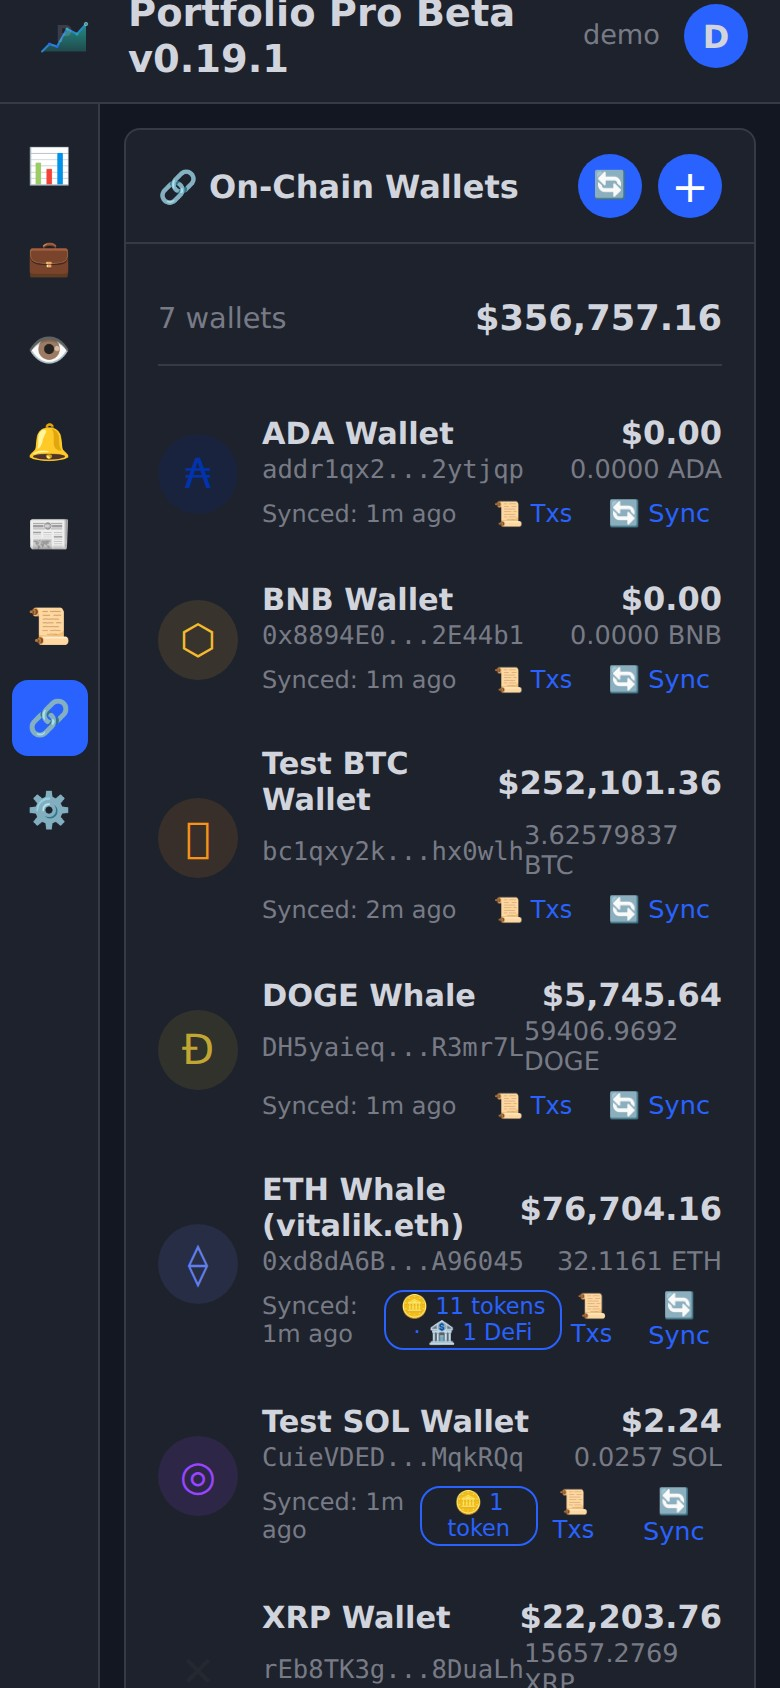
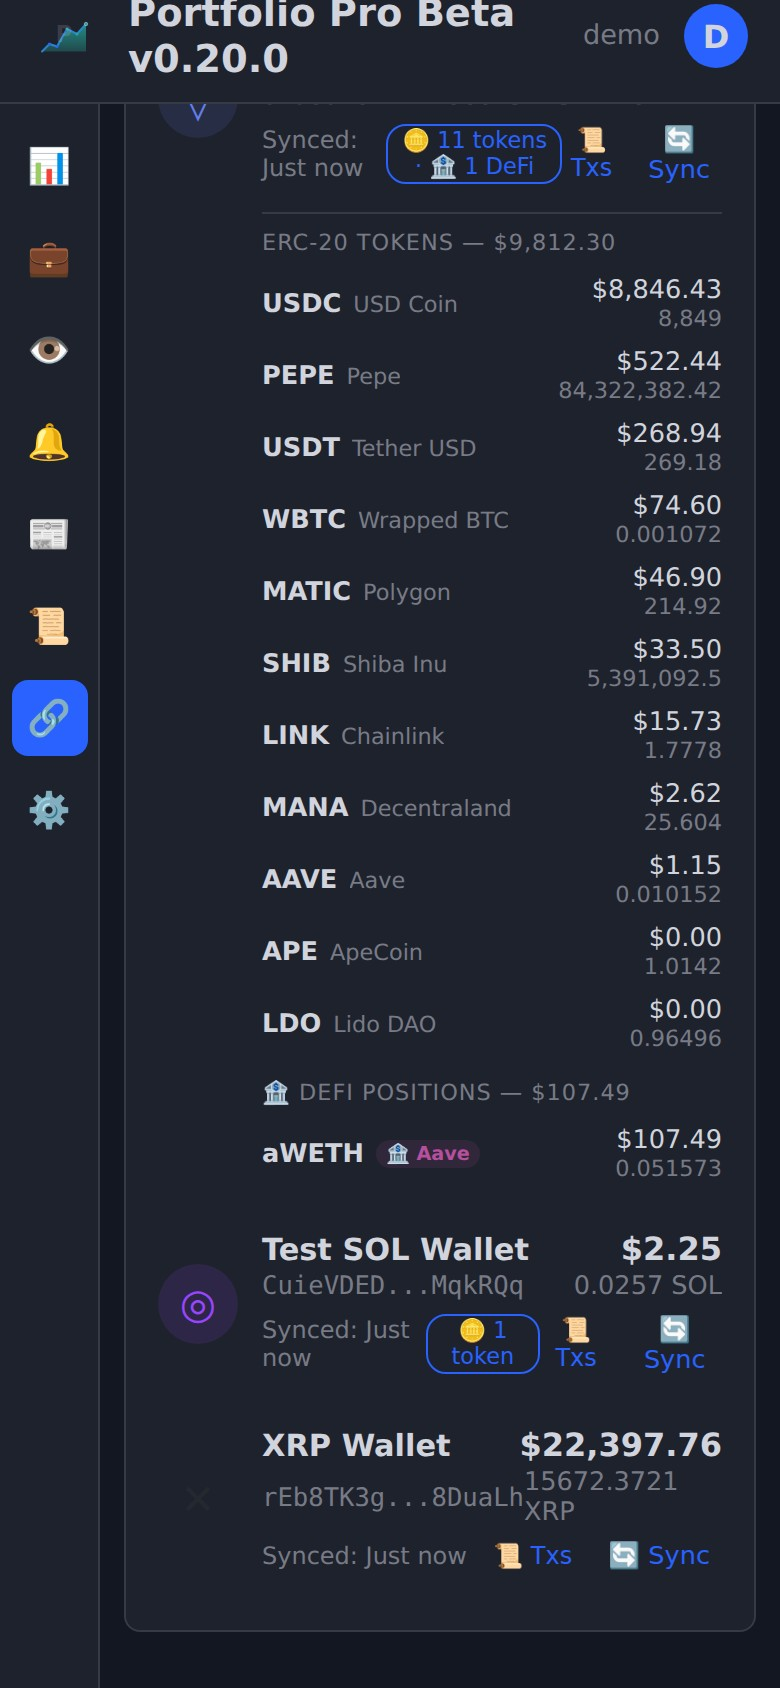
fix: better wallet-tokens screenshot + compact features list

diff --git a/README.md b/README.md
@@ -14,29 +14,17 @@
 
 ## Features
 
-- 📊 **Interactive Charts** — Area/candlestick views with MA20/50/200 overlays
-- 💼 **Portfolio Management** — Track positions, options, and cash with grouped display
-- 🔗 **Blockchain Wallets** — Connect public addresses across 13 chains with auto-sync
-- ⛓ **13 Chains** — BTC, ETH, SOL, BNB, AVAX, MATIC, ARB, OP, LTC, DOGE, XRP, ADA, DOT
-- 👀 **Watchlists** — Customizable with 12+ categories, price alerts, and dropdown selector
-- 🔔 **Alerts** — Set price targets with Telegram & push notifications
-- ⛓ **Options Chain** — View calls/puts with strikes and expiry dates
-- 📰 **News Feed** — Real-time market news with stock-specific filtering
-- 🥧 **Allocation Chart** — Visual donut chart showing portfolio breakdown
-- 📈 **Performance Chart** — Historical portfolio value with daily snapshots
-- 📊 **OHLCV History** — Stored daily candles for all tracked symbols (back to 1984)
-- 💱 **Multi-Currency** — EUR, USD, GBP, CHF with live exchange rates
-- 🔔 **Push Notifications** — Browser push via service worker (HTTPS required)
-- 📱 **Mobile-First** — Swipe actions, collapsible sections, responsive design
-- 👥 **Multi-User** — JWT auth with per-user portfolios
-- 🔒 **Security Hardened** — CSP, CORS lockdown, input validation, audit logging
-- ⚡ **Fast** — LocalStorage caching, debounced DB writes, indexed queries
-- 📍 **Position Source Tracking** — Track where each position is held (exchange, wallet, cold storage)
-- 🏦 **Exchange/Location** — Autocomplete for Binance, Kraken, Ledger, Keytrade Bank, etc.
-- 📐 **Compact Numbers** — Large values auto-format ($1.5M, $2.3B)
-- 🎁 **Demo Mode** — Ships with pre-loaded demo portfolio for instant exploration
-- 🪙 **42 Token Tracking** — ERC-20 (20) + SPL (14) + DeFi (8) auto-detected tokens
-- 🏗 **Modular Architecture** — Clean route modules, utility services, middleware layers
+- 📊 **Charts & Analytics** — Interactive area/candlestick charts, MA overlays, allocation donut, performance history
+- 💼 **Portfolio Tracking** — Positions, options, cash, transactions with P&L and source/location tracking
+- 🔗 **13-Chain Wallet Sync** — BTC, ETH, SOL, BNB, AVAX, MATIC, ARB, OP, LTC, DOGE, XRP, ADA, DOT
+- 🪙 **42 Auto-Detected Tokens** — ERC-20, SPL, and DeFi positions (Aave, Compound, Lido, Rocket Pool)
+- 👀 **Watchlists & Alerts** — 12+ categories, price targets, Telegram & push notifications
+- ⛓ **Options Chain** — Calls/puts with strikes, expiry dates, ITM highlighting
+- 📰 **News & Multi-Currency** — Real-time market news, EUR/USD/GBP/CHF with live FX rates
+- 📱 **Mobile-First** — Responsive design, compact numbers ($1.5M), swipe actions
+- 🔒 **Secure & Fast** — JWT + Argon2id, CSP, rate limiting, SQLite with indexed queries
+- 🎁 **Demo Mode** — Pre-loaded portfolio for instant exploration
+- 🐳 **Docker & CI/CD** — Multi-arch images (amd64/arm64), GitHub Actions pipeline
 
 ## Tech Stack
 
